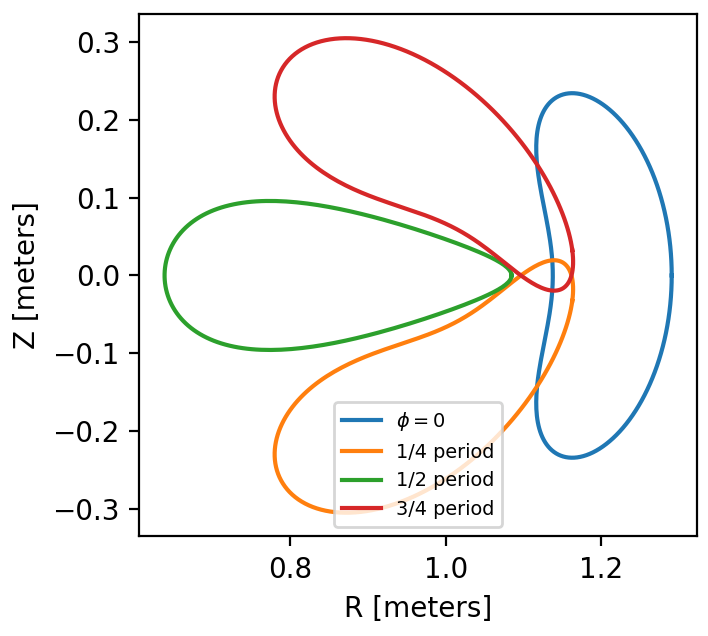
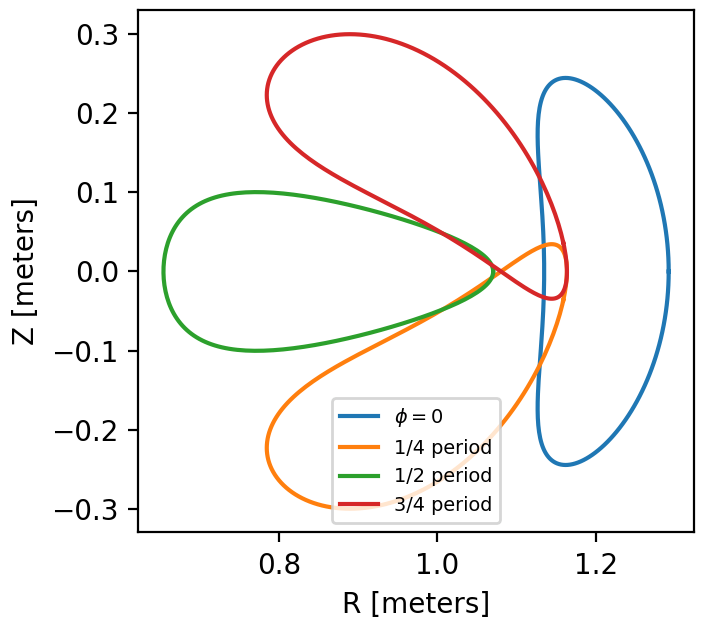
Updated resolution_increase example to use QuasisymmetryRatioResidual

diff --git a/examples/2_Intermediate/resolution_increase_boozer.py b/examples/2_Intermediate/resolution_increase_boozer.py
@@ -1,10 +1,8 @@
 #!/usr/bin/env python
 
 import os
-import numpy as np
 from simsopt.util.mpi import MpiPartition, log
-from simsopt.mhd.vmec import Vmec
-from simsopt.mhd.vmec_diagnostics import QuasisymmetryRatioResidual
+from simsopt.mhd import Vmec, Boozer, Quasisymmetry
 from simsopt.objectives.graph_least_squares import LeastSquaresProblem
 from simsopt.solve.graph_mpi import least_squares_mpi_solve
 
@@ -24,8 +22,8 @@ resolution for VMEC and booz_xform is increased.
 
 #log()
 
-print("Running 2_Intermediate/resolution_increase.py")
-print("=============================================")
+print("Running 2_Intermediate/resolution_increase_boozer.py")
+print("====================================================")
 
 mpi = MpiPartition()
 mpi.write()
@@ -36,14 +34,17 @@ vmec.verbose = mpi.proc0_world
 surf = vmec.boundary
 
 # Configure quasisymmetry objective:
-qs = QuasisymmetryRatioResidual(vmec,
-                                np.arange(0, 1.01, 0.1),  # Radii to target
-                                helicity_m=1, helicity_n=0)  # (M, N) you want in |B|
+boozer = Boozer(vmec)
+boozer.bx.verbose = mpi.proc0_world
+qs = Quasisymmetry(boozer,
+                   0.5,  # Radius to target
+                   1, 0)  # (M, N) you want in |B|
 
 # Define objective function
 prob = LeastSquaresProblem.from_tuples([(vmec.aspect, 6, 1),
-                                        (vmec.mean_iota, 0.42, 1),
-                                        (qs.residuals, 0, 1)])
+                                        (vmec.iota_axis, 0.465, 1),
+                                        (vmec.iota_edge, 0.495, 1),
+                                        (qs.J, 0, 1)])
 
 # Fourier modes of the boundary with m <= max_mode and |n| <= max_mode
 # will be varied in the optimization. A larger range of modes are
@@ -55,9 +56,14 @@ for step in range(3):
     vmec.indata.mpol = 3 + step
     vmec.indata.ntor = vmec.indata.mpol
 
+    # booz_xform's mpol & ntor will be 16, 24, 32:
+    boozer.mpol = 16 + step * 8
+    boozer.ntor = boozer.mpol
+
     if mpi.proc0_world:
         print("Beginning optimization with max_mode =", max_mode, \
               ", vmec mpol=ntor=", vmec.indata.mpol, \
+              ", boozer mpol=ntor=", boozer.mpol, \
               ". Previous vmec iteration = ", vmec.iter)
 
     # Define parameter space:
@@ -81,5 +87,5 @@ for step in range(3):
 
 print("Good bye")
 
-print("End of 2_Intermediate/resolution_increase.py")
-print("=============================================")
+print("End of 2_Intermediate/resolution_increase_boozer.py")
+print("===================================================")

diff --git a/examples/2_Intermediate/QH_fixed_resolution.py b/examples/2_Intermediate/QH_fixed_resolution.py
@@ -43,15 +43,17 @@ qs = QuasisymmetryRatioResidual(vmec,
 prob = LeastSquaresProblem.from_tuples([(vmec.aspect, 7, 1),
                                         (qs.residuals, 0, 1)])
 
-print(f"Quasisymmetry objective before optimization: {qs.total()}")
+print("Quasisymmetry objective before optimization:", qs.total())
+print("Total objective before optimization:", prob.objective())
 
 # To keep this example fast, we stop after the first function
 # evaluation. For a "real" optimization, remove the max_nfev
 # parameter.
 least_squares_mpi_solve(prob, mpi, grad=True, rel_step=1e-5, abs_step=1e-8, max_nfev=1)
 
-print(f"Final aspect ratio is {vmec.aspect()}")
-print(f"Quasisymmetry objective after optimization: {qs.total()}")
+print("Final aspect ratio:", vmec.aspect())
+print("Quasisymmetry objective after optimization:", qs.total())
+print("Total objective after optimization:", prob.objective())
 
 print("End of 2_Intermediate/QH_fixed_resolution.py")
 print("============================================")

diff --git a/docs/source/example_quasisymmetry.rst b/docs/source/example_quasisymmetry.rst
@@ -10,15 +10,16 @@ objective function is
 :obj:`simsopt.mhd.vmec_diagnostics.QuasisymmetryRatioResidual`, based
 on the fact that :math:`(\vec{B}\times\nabla B
 \cdot\nabla\psi)/(\vec{B}\cdot\nabla B)` is a flux function in
-quasisymmetry, and used in the paper `arXiv:2108.03711
+quasisymmetry, demonstrated in the paper `arXiv:2108.03711
 <https://arxiv.org/pdf/2108.03711>`__.  The other objective function,
-using :obj:`simsopt.mhd.boozer.Quasisymmetry`,
-is a more traditional one based on the Fourier modes in Boozer
-coordinates :math:`B_{m,n}` that break the symmetry. The recommended
-approach is to use
+using :obj:`simsopt.mhd.boozer.Quasisymmetry`, is a more traditional
+one based on the Fourier modes in Boozer coordinates :math:`B_{m,n}`
+that break the symmetry. The recommended approach is to use
 :obj:`~simsopt.mhd.vmec_diagnostics.QuasisymmetryRatioResidual`, since
 it has the modest advantage of not requiring a transformation to
-Boozer coordinates, although both methods are effective.
+Boozer coordinates, although both methods are effective. The first two
+examples on this page do not require the ``booz_xform`` package,
+whereas the third example does.
 
 For these optimization examples, you probably want to write a script
 that is submitted to the queue on a computing cluster, where they are
@@ -30,17 +31,13 @@ Fixed resolution
 ----------------
 
 ..
-   Input file for this configuration came from IPP-Cobra in
-   /ptmp/mlan/20210406-01-simsopt/20210406-01-002-simsopt_QH_attempt/wout_nfp4_QH_000_000050.nc
-   This example was run on IPP-Cobra in /ptmp/mlan/20210421-01-simsoptAfterBetterErrorHandling/20210421-01-005_QH_example_const_resolution_maxMode2
+   This example was run on IPP-Cobra in /ptmp/mlan/20211217-01-simsopt_docs_tutorials/20211217-01-001_QH_fixed_resolution
    The final configuration is also available at
-   ~/Box Sync/work21/wout_20210421-01-005_QH_example_nfp4_QH_warm_start_000_000165.nc
+   ~/Box Sync/work21/wout_20211217-01-001_simsopt_docs_tutorials_nfp4_QH_warm_start_000_000038.nc
 
 This example is also available as ``QH_fixed_resolution.py`` in the
 ``examples/2_Intermediate`` directory.  As usual, a driver script begins with
 imports of the classes and functions we will need::
-
-  #!/usr/bin/env python
 
   import numpy as np
   from simsopt.util.mpi import MpiPartition
@@ -72,10 +69,11 @@ We next initialize a VMEC object from an input file::
 
   vmec = Vmec("input.nfp4_QH_warm_start", mpi=mpi)
 
-This file can be found in the ``examples/2_Intermediate/inputs`` directory. The file
-describes a configuration that has already been partially optimized
-for quasi-helical symmetry in a very small parameter space, keeping
-poloidal and toroidal mode numbers (the latter divided by the number of field periods) only up through 1:
+This file can be found in the ``examples/2_Intermediate/inputs``
+directory. The file describes a configuration that has already been
+partially optimized for quasi-helical symmetry in a very small
+parameter space, keeping poloidal and toroidal mode numbers (the
+latter divided by the number of field periods) only up through 1:
 
 .. image:: example_quasisymmetry_QH_before.png
    :width: 400
@@ -98,7 +96,9 @@ the mode numbers greater than 2 to all be fixed. Then the desired
 range of modes is set to be not fixed. This range includes the m=n=0
 mode which is essentially the mean major radius. We don't need or want
 to vary the overall scale of the configuration, so it is convenient to
-remove this mode from the parameter space. To confirm which modes will be varied, you can print out the names of the free degrees of freedom (dofs)::
+remove this mode from the parameter space. To confirm which modes will
+be varied, you can print out the names of the free degrees of freedom
+(dofs)::
 
   print('Parameter space:', surf.dof_names)
 
@@ -141,7 +141,10 @@ the volume.  You are free to provide different values, or a single
 float if you only want to target quasisymmetry on a single
 surface. There is also an optional argument ``weights`` if you wish to
 have different weights in the objective function for quasisymmetry on
-different surfaces.
+different surfaces. The ``helicity_n`` argument can also be set to
+``+1`` rather than ``-1`` for quasi-helical symmetry, amounting to a
+mirror-reversal, though the initial configuration used here is
+consistent with the ``-1`` handedness.
 
 We are now ready to define the total objective function. Here we will
 include quasisymmetry and aspect ratio. Aspect ratio must be included
@@ -157,11 +160,23 @@ It can be seen that we are targeting an aspect ratio of 7. This
 objective function will be a sum of 44,353 least-squares terms, 44,352
 of which correspond to the quasisymmetry residual on 63x64 grid points
 on the 11 flux surfaces targeted, plus one additional term
-``(vmec.aspect - 7) ** 2``. (The 63x62 resolution is a default in
+``(vmec.aspect - 7) ** 2``. (The 63x64 resolution is a default in
 :obj:`~simsopt.mhd.vmec_diagnostics.QuasisymmetryRatioResidual`.)  This
 large number of residual terms is no problem - it introduces
 negligible computational cost compared to the cost of the equilibrium
 calculations, so we may as well use this high resolution.
+
+You can check the value of the objective functions before the
+optimization. Rather than print each residual term, the scalar total
+for the quasisymmetry term can be obtained with the ``.total()``
+method.
+
+.. code-block::
+
+   print("Quasisymmetry objective before optimization:", qs.total())
+   print("Total objective before optimization:", prob.objective())
+
+The results are both 0.304, since the aspect ratio term is negligible.
 
 Finally, we solve the optimization problem::
 
@@ -187,13 +202,15 @@ produced by this optimization script is the following configuration:
 .. image:: example_quasisymmetry_QH_after_Boozer.png
    :width: 400
 ..
-   Figure produced by ~/Box Sync/work21/boozPlotHalfFluxUnfilled wout_20210421-01-005_QH_example_nfp4_QH_warm_start_000_000165.nc
+   Figure produced by ~/Box Sync/work21/boozPlotHalfFluxUnfilled wout_20211217-01-001_simsopt_docs_tutorials_nfp4_QH_warm_start_000_000038.nc
 
 This last figure shows that reasonably good quasisymmetry has been
-achieved on the desired magnetic surface. The quality of quasisymmetry
-can be improved by further refining the configuration using one or
-more rounds of optimization with more Fourier modes in the parameter
-space.
+achieved. The quality of quasisymmetry can be improved significantly
+by further refining the configuration using one or more rounds of
+optimization with more Fourier modes in the parameter space. Printing
+``qs.total()`` or ``prob.objective()`` at the end of the optimization,
+it can be seen that both have been reduced significantly, to 0.00794
+for the result shown here.
 
 
 Dynamic resolution
@@ -201,18 +218,20 @@ Dynamic resolution
 
 Since simsopt optimization problems are defined using a python script,
 you are free to add other scripting. Here we show how this capability
-can be used to increase the numerical resolution of VMEC and
-booz_xform during the optimization. At the same time, we will increase
-the number of Fourier modes in the parameter space during the
-optimization. This example can also be found in the ``examples/2_Intermediate``
-directory as ``resolution_increase``.
+can be used to increase the numerical resolution of codes such as VMEC
+during the optimization. At the same time, we will increase the number
+of Fourier modes in the parameter space during the optimization. This
+example can also be found in the ``examples/2_Intermediate`` directory
+as ``resolution_increase.py``. This example is very similar to the
+quasi-axisymmetry optimization shown in `arXiv:2108.03711                                                               
+<https://arxiv.org/pdf/2108.03711>`__.
 
 As usual, we begin with the necessary imports::
 
-  #!/usr/bin/env python
-
+  import numpy as np
   from simsopt.util.mpi import MpiPartition
-  from simsopt.mhd import Vmec, Boozer, Quasisymmetry
+  from simsopt.mhd.vmec import Vmec
+  from simsopt.mhd.vmec_diagnostics import QuasisymmetryRatioResidual
   from simsopt.objectives.graph_least_squares import LeastSquaresProblem
   from simsopt.solve.graph_mpi import least_squares_mpi_solve
 
@@ -228,10 +247,110 @@ starting "from scratch"::
 
   vmec = Vmec("input.nfp2_QA", mpi=mpi)
 
-This input file can be found in the ``examples/2_Intermediate/inputs`` directory. We define
-the quasisymmetry objective as in the previous section, except that we
-specify a helicity of (1,0) instead of (1,1) to get quasi-axisymmetry
-instead of quasi-helical symmetry::
+This input file can be found in the ``examples/2_Intermediate/inputs``
+directory. We define the quasisymmetry objective as in the previous
+section, except that we specify a helicity of (1,0) instead of (1,1)
+or (1,-1) to get quasi-axisymmetry instead of quasi-helical symmetry::
+
+  # Configure quasisymmetry objective:
+  qs = QuasisymmetryRatioResidual(vmec,
+                                  np.arange(0, 1.01, 0.1),  # Radii to target
+				  helicity_m=1, helicity_n=0)  # (M, N) you want in |B|
+				  
+We now define the total objective function. For this example, it is
+necessary to include a nonzero target value for the rotational
+transform in the objective, to prevent the optimum from being truly
+axisymmetric::
+
+  # Define objective function
+  prob = LeastSquaresProblem.from_tuples([(vmec.aspect, 6, 1),
+                                          (vmec.mean_iota, 0.42, 1),
+                                          (qs, 0, 1)])
+
+It can be seen here that we are seeking a configuration with aspect
+ratio 6, and average iota slightly above 2 / 5 = 0.4.
+
+Now, we set up a loop over several optimization steps. At each step,
+the resolution parameters ``mpol`` and ``ntor`` for VMEC increase. At
+the same time, in each optimization step a larger range of poloidal
+and toroidal mode numbers are set to be varied in the optimization::
+
+  for step in range(4):
+      max_mode = step + 1
+    
+      # VMEC's mpol & ntor will be 3, 4, 5, 6:
+      vmec.indata.mpol = 3 + step
+      vmec.indata.ntor = vmec.indata.mpol
+    
+      if mpi.proc0_world:
+          print("Beginning optimization with max_mode =", max_mode, \
+                ", vmec mpol=ntor=", vmec.indata.mpol, \
+                ". Previous vmec iteration = ", vmec.iter)
+
+      # Define parameter space:
+      surf.fix_all()
+      surf.fixed_range(mmin=0, mmax=max_mode, 
+                       nmin=-max_mode, nmax=max_mode, fixed=False)
+      surf.fix("rc(0,0)") # Major radius
+
+      # Carry out the optimization for this step:
+      least_squares_mpi_solve(prob, mpi, grad=True)
+
+      if mpi.proc0_world:
+          print("Done optimization with max_mode =", max_mode, \
+                ". Final vmec iteration = ", vmec.iter)
+
+If you like, other parameters could be adjusted at each step too, such
+as the radial resolution or number of iterations in VMEC, the solver
+tolerances, or the maximum number of iteration of the optimization
+algorithm.
+
+As in the previous section, the final result of this optimization can
+be sensitive to small changes in simsopt, VMEC, or the packages they
+depend on. Therefore you will not necessarily obtain exactly the
+result shown here. But one result produced by this optimization script
+is the following configuration:
+
+.. image:: example_quasisymmetry_QA_after.png
+   :width: 400
+.. image:: example_quasisymmetry_QA_after_3D.png
+   :width: 400
+..
+   Figure produced by ~/Box Sync/MATLAB/m20210207_plotVMECWout.m
+.. image:: example_quasisymmetry_QA_after_Boozer.png
+   :width: 400
+..
+   Figure produced by ~/Box Sync/work21/boozPlotHalfFluxUnfilled simsopt_nfp2_QA_20210328-01-020_000_000251/wout_simsopt_nfp2_QA_20210328-01-020_000_000251_scaled.nc
+
+
+Bmn objective
+-------------
+
+Here we show an alternative method of quasisymmetry optimization using
+a different objective function,
+:obj:`simsopt.mhd.boozer.Quasisymmetry`, based on the
+symmetry-breaking Fourier mode aplitudes :math:`B_{m,n}` in Boozer
+coordinates.  This example can also be found in the
+``examples/2_Intermediate`` directory as
+``resolution_increase_boozer.py``.
+
+In this case, the imports needed are::
+
+  from simsopt.util.mpi import MpiPartition
+  from simsopt.mhd.vmec import Vmec
+  from simsopt.mhd.boozer import Boozer, Quasisymmetry
+  from simsopt.objectives.graph_least_squares import LeastSquaresProblem
+  from simsopt.solve.graph_mpi import least_squares_mpi_solve
+
+We again split the pool of MPI processes into worker groups and
+initialize a ``Vmec`` object as in the previous example::
+
+  mpi = MpiPartition()
+  vmec = Vmec("input.nfp2_QA", mpi=mpi)
+
+This input file can be found in the ``examples/2_Intermediate/inputs``
+directory. Next, this alternative quasisymmetry objective can be
+created as follows::
 
   # Configure quasisymmetry objective:
   boozer = Boozer(vmec)
@@ -239,10 +358,24 @@ instead of quasi-helical symmetry::
                      0.5, # Radius to target
                      1, 0) # (M, N) you want in |B|
 
-We now define the total objective function. For this example, it is
-necessary to include a nonzero target value for the rotational
-transform in the objective, to prevent the optimum from being truly
-axisymmetric::
+There are several adjustable options, the details of which can be
+found in the API documentation for :obj:`~simsopt.mhd.boozer.Boozer`
+and :obj:`~simsopt.mhd.boozer.Quasisymmetry`. The numerical resolution
+of the Boozer-coordinate transformation can be adjusted by passing
+parameters to the :obj:`~simsopt.mhd.boozer.Boozer` constructor, as in
+``Boozer(vmec, mpol=64, ntor=32)``. The second argument to
+``Quasisymmetry`` above sets the quasisymmetry objective to be
+evaluated at normalized toroidal flux of 0.5, but you are free to
+provide different values.  Or, a list of values can be provided to
+target quasisymmetry on multiple surfaces. The
+:obj:`~simsopt.mhd.boozer.Quasisymmetry` also has optional arguments
+to adjust the normalization and weighting of different Fourier modes.
+
+We now define the total objective function. As with the previous
+quasi-axisymmetry example, it is necessary to include a nonzero target
+value for the rotational transform in the objective, to prevent the
+optimum from being truly axisymmetric. Here we will constrain iota
+at the edge and magnetic axis, in order to prescribe the magnetic shear::
 
   # Define objective function
   prob = LeastSquaresProblem.from_tuples([(vmec.aspect, 6, 1),
